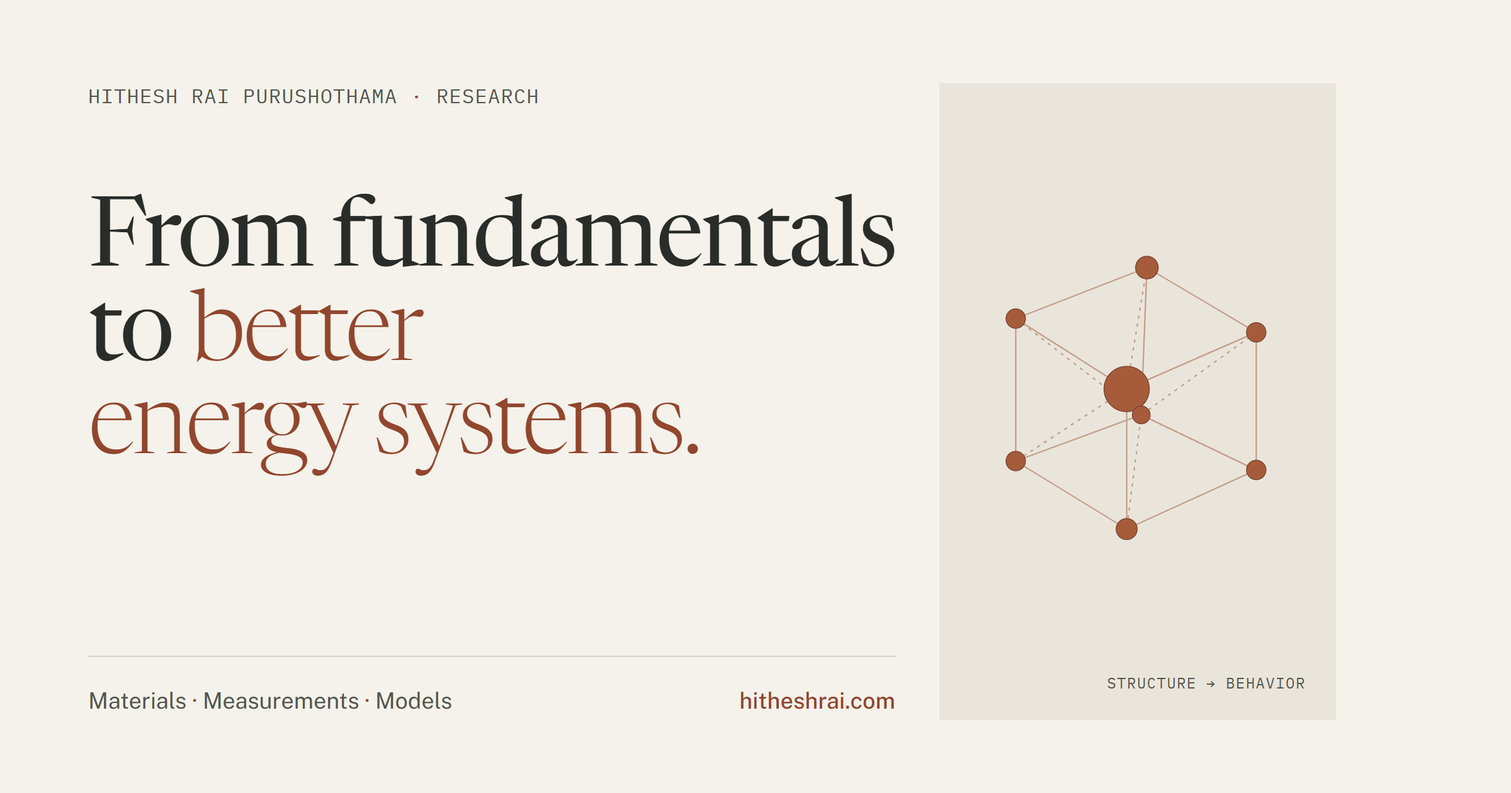
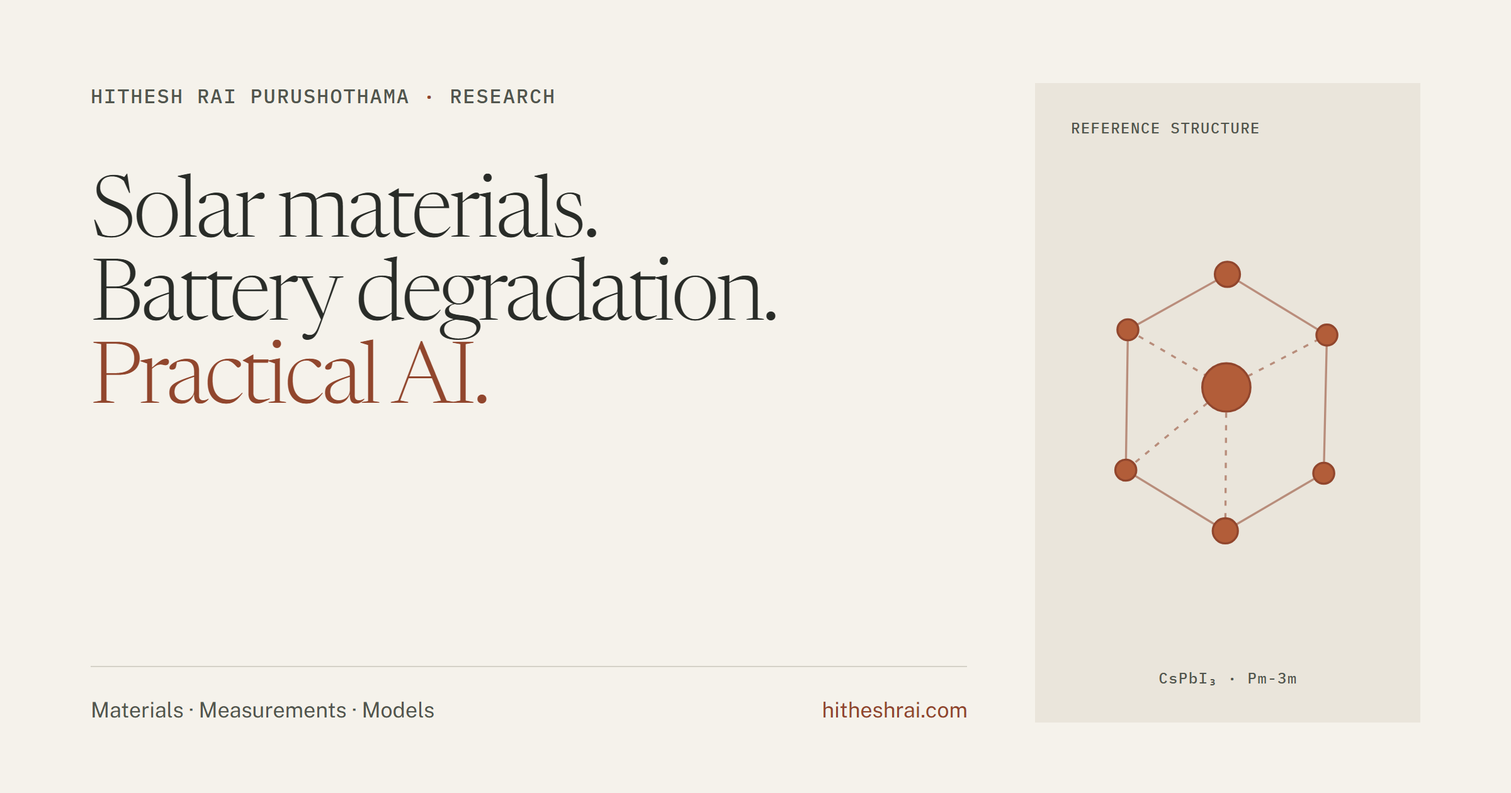
Center the site on documented research contributions

diff --git a/src/data/site.ts b/src/data/site.ts
@@ -7,22 +7,22 @@ export const profile = {
 
 // A deliberately small public profile. Detailed research records stay outside the site.
 export const projects = [
-  { id: 'perovskites', number: '01', category: 'Undergraduate · Solar', affiliation: 'ASU · Rolston Lab', title: 'From narrow to wide bandgaps.', problem: 'Question', problemText: 'How do composition and processing change what a perovskite film absorbs—and how it degrades?', role: 'Contribution', roleText: 'Started with mobile ions in FAPbI₃, then moved to ambient-processed cesium-based films.', outcome: 'Shared', outcomeText: 'Through IEEE PVSC and IPEROP.', href: 'https://www.nanoge.org/proceedings/IPEROP25/674e7264d74a090160ef6a3d', link: 'IPEROP record' },
-  { id: 'impedance', number: '02', category: 'Master’s · Batteries', affiliation: 'ASU · Rolston Lab', title: 'Follow the degradation signal.', problem: 'Question', problemText: 'What can impedance—how a cell resists current at different frequencies—tell us before performance is lost?', role: 'Contribution', roleText: 'Test physical checks, features, and models against battery cells they have not seen before.', outcome: 'Shared', outcomeText: 'The cross-system approach at AI4X 2026.', href: 'https://openreview.net/pdf?id=qJkiTa9Z0q', link: 'AI4X abstract' },
-  { id: 'computational-materials', number: '03', category: 'Across both · Computation', affiliation: 'ASU · Rolston Lab', title: 'Choose the next experiment.', problem: 'Question', problemText: 'How can a large materials space be searched without treating every candidate as equally useful?', role: 'Contribution', roleText: 'Build screening workflows that narrow what should be tested next.', outcome: 'Direction', outcomeText: 'Let computation guide experiments, then let experiments correct the model.', href: 'https://github.com/rolston-lab-asu/BO-for-Energy-material', link: 'Rolston Lab code' },
+  { id: 'perovskites', number: '01', category: 'Undergraduate · Solar', affiliation: 'ASU · Rolston Lab', title: 'Perovskite films: ions and processing', problem: 'Question', problemText: 'How do additives and processing affect ionic motion and film quality?', role: 'Contribution', roleText: 'Investigated mobile ions using PAIOS electrical and optical characterization, then worked on ambient blade coating of cesium lead halide films.', outcome: 'Outputs', outcomeText: 'Three ASU Forge projects, a 2024 IEEE PVSC paper, and a 2025 IPEROP poster.', href: 'https://forge.engineering.asu.edu/participant/rai-purushothama-hithesh/', link: 'Three ASU research records' },
+  { id: 'impedance', number: '02', category: 'Master’s · Batteries', affiliation: 'ASU · Rolston Lab', title: 'What impedance reveals about aging', problem: 'Question', problemText: 'How does a cell’s electrical response to a small alternating signal change as it ages?', role: 'Contribution', roleText: 'Check measurement consistency, extract impedance features, and evaluate models on cells excluded from training.', outcome: 'Status', outcomeText: 'The research approach was shared at AI4X 2026; transfer evaluation remains ongoing.', href: 'https://openreview.net/pdf?id=qJkiTa9Z0q', link: 'AI4X abstract' },
+  { id: 'computational-materials', number: '03', category: 'Across both · Computation', affiliation: 'ASU · Rolston Lab', title: 'Screening material candidates', problem: 'Question', problemText: 'How can existing property data make candidate selection more systematic?', role: 'Contribution', roleText: 'Build materials-data workflows and Bayesian-optimization benchmarks for candidate selection.', outcome: 'Boundary', outcomeText: 'The public code benchmarks search methods; experimental validation is a separate stage.', href: 'https://github.com/rolston-lab-asu/BO-for-Energy-material', link: 'Rolston Lab benchmark code' },
 ];
 
 export const publications = [
-  { year: '2026', venue: 'AI4X–Accelerate · Singapore', type: 'Poster', title: 'Transferable Impedance-Grounded Learning for Interfacial Degradation Across Energy Systems', authors: 'H. R. Purushothama, M. Casareto, N. Rolston', href: 'https://openreview.net/pdf?id=qJkiTa9Z0q', linkLabel: 'Abstract', note: 'The linked abstract predates the presented poster and lists H. R. Purushothama and N. Rolston.' },
-  { year: '2025', venue: 'IPEROP · Kyoto', type: 'Poster', title: 'Blade-Coated Cesium Lead Halide Perovskite Thin Films for Alphavoltaic and Optoelectronic Applications', authors: 'H. R. Purushothama, N. Rolston', href: 'https://www.nanoge.org/proceedings/IPEROP25/674e7264d74a090160ef6a3d', linkLabel: 'Conference record', note: '' },
-  { year: '2024', venue: 'IEEE PVSC · Seattle', type: 'Conference paper', title: 'Quantifying Mobile Ions in Formamidinium Lead Iodide Perovskite to Study Ion Migration for Enhanced Stability and Performance', authors: 'H. R. Purushothama, S. Penukula, N. Rolston', href: 'https://doi.org/10.1109/PVSC57443.2024.10749044', linkLabel: 'IEEE record', note: '' },
+  { year: '2026', venue: 'AI4X–Accelerate · Singapore', type: 'Poster', title: 'Transferable Impedance-Grounded Learning for Interfacial Degradation Across Energy Systems', authors: 'H. R. Purushothama, M. Casareto, N. Rolston', summary: 'How impedance measurements can inform models of degradation at material interfaces.', href: 'https://openreview.net/pdf?id=qJkiTa9Z0q', linkLabel: 'Abstract', note: 'The linked abstract predates the presented poster and lists H. R. Purushothama and N. Rolston.' },
+  { year: '2025', venue: 'IPEROP · Kyoto', type: 'Poster', title: 'Blade-Coated Cesium Lead Halide Perovskite Thin Films for Alphavoltaic and Optoelectronic Applications', authors: 'H. R. Purushothama, N. Rolston', summary: 'Ambient processing of cesium lead halide materials into thick films.', href: 'https://www.nanoge.org/proceedings/IPEROP25/674e7264d74a090160ef6a3d', linkLabel: 'Conference record', note: '' },
+  { year: '2024', venue: 'IEEE PVSC · Seattle', type: 'Conference paper', title: 'Quantifying Mobile Ions in Formamidinium Lead Iodide Perovskite to Study Ion Migration for Enhanced Stability and Performance', authors: 'H. R. Purushothama, S. Penukula, N. Rolston', summary: 'Mobile ions in a perovskite semiconductor and their relationship with stability.', href: 'https://doi.org/10.1109/PVSC57443.2024.10749044', linkLabel: 'IEEE record', note: '' },
 ];
 
 export const experience = [
   { id: 'asu', place: 'Tempe', institution: 'Arizona State University', unit: 'Rolston Lab', coord: [-111.94, 33.42], period: 'Since 2022', role: 'Research Assistant · Graduate role since Jan 2026', text: 'The work began with making perovskite films alongside the Rolston Lab team. Ambient processing is what manufacturing needs—and it is harder.' },
   { id: 'purdue', place: 'West Lafayette', institution: 'Purdue University', unit: 'Letian Dou Group', coord: [-86.91, 40.42], period: 'Summer 2023', role: 'SURF Research Fellow', text: 'Fabricated and tested halide-perovskite solar cells, then compiled device structures, processing conditions, additives, and efficiencies into a shared database.' },
-  { id: 'hzb', place: 'Berlin', institution: 'Helmholtz-Zentrum Berlin', unit: 'Quantum Phenomena in Novel Materials', coord: [13.4, 52.52], period: 'Summer 2024', role: 'International Summer Student', text: 'Analyzed X-ray and neutron total-scattering data to connect local atomic structure with phase behavior in ferroelectric and piezoelectric perovskites.' },
-  { id: 'epfl', place: 'Neuchâtel', institution: 'EPFL', unit: 'Photovoltaics and Thin-Film Electronics Laboratory', coord: [6.93, 46.99], period: 'Summer 2025', role: 'Undergraduate Research Assistant · ThinkSwiss Scholar', text: 'Worked with the PV-Lab team on SnO₂ transport layers, device fabrication, encapsulation, and stability testing; fabricated single-junction cells up to 19% efficiency.' },
+  { id: 'hzb', place: 'Berlin', institution: 'Helmholtz-Zentrum Berlin', unit: 'Quantum Phenomena in Novel Materials', coord: [13.4, 52.52], period: 'Summer 2024', role: 'International Summer Student', text: 'Analyzed X-ray and neutron scattering data to investigate how local atomic arrangements relate to phase behavior in ferroelectric and piezoelectric perovskites.' },
+  { id: 'epfl', place: 'Neuchâtel', institution: 'EPFL', unit: 'Photovoltaics and Thin-Film Electronics Laboratory', coord: [6.93, 46.99], period: 'Summer 2025', role: 'Undergraduate Research Assistant · ThinkSwiss Scholar', text: 'Worked with the PV-Lab team on SnO₂ transport layers, solar-cell fabrication, encapsulation, and stability testing.' },
   { id: 'nextlab', place: 'Tempe', institution: 'ASU Next Lab', unit: 'AI & Edge Systems', coord: [-111.94, 33.42], period: 'Since 2023', role: 'Studio Associate from Sep 2023 · Management Intern since Mar 2026', text: 'Partner goals became systems the team could test under limited power and connectivity—with trade-offs made visible early.' },
-  { id: 'nims', place: 'Tsukuba', institution: 'NIMS', unit: 'Automated Electrochemical Experiments Team', coord: [140.11, 36.08], period: 'May–Aug 2026', role: 'Graduate Research Intern', text: 'Built analysis tools for roughly 12,000 impedance spectra and a 60-cell factorial study; rejected a strong-looking model after a lithium-conservation check exposed an artifact.' },
+  { id: 'nims', place: 'Tsukuba', institution: 'NIMS', unit: 'Automated Electrochemical Experiments Team', coord: [140.11, 36.08], period: 'May–Aug 2026', role: 'Graduate Research Intern', text: 'Built tools to analyze battery impedance data and a 60-cell factorial study. A lithium-conservation check exposed an artifact in one model result, so that result was rejected.' },
 ];

diff --git a/src/components/Engineering.tsx b/src/components/Engineering.tsx
@@ -1,19 +1,19 @@
 export default function Engineering() {
   return <section className="section wrap" id="engineering" aria-labelledby="engineering-title">
     <div className="section-heading" data-reveal>
-      <div><p className="eyebrow">Projects & leadership</p><h2 id="engineering-title">Helping technical teams move.</h2></div>
+      <div><p className="eyebrow">Beyond materials research</p><h2 id="engineering-title">Applied AI and engineering projects</h2></div>
       <a className="text-link" href="https://github.com/hitheshrai" target="_blank" rel="noreferrer">More on GitHub <span aria-hidden="true">↗</span><span className="sr-only"> (opens in a new tab)</span></a>
     </div>
 
     <div className="engineering-grid" data-reveal="scale">
       <figure className="engineering-photo"><img src="/assets/edge-llamacon.jpeg" width="675" height="380" alt="Four ASU Next Lab team members presenting EDge AI at LlamaCon 2025." loading="lazy"/><figcaption>ASU Next Lab presenting EDge AI at LlamaCon 2025 · Photo: ASU SolarSPELL</figcaption></figure>
-      <div className="engineering-story"><p className="eyebrow">Featured · EDge AI</p><h3>From a partner goal to a working demonstration.</h3><p>Worked across Next Lab and SolarSPELL to turn offline community AI into hardware tests, model trade-offs, demonstrations, and shared technical decisions. Kept power, memory, connectivity, and output quality visible throughout. Led the team presentation at ASU’s 2025 Agentic AI conference; the work also appeared at FOLC Fest and Meta’s inaugural LlamaCon.</p><div className="engineering-links"><a className="text-link" href="https://nextlab.asu.edu/edge-ai/" target="_blank" rel="noreferrer">Next Lab project <span aria-hidden="true">↗</span><span className="sr-only"> (opens in a new tab)</span></a><a className="text-link" href="https://nextlab.asu.edu/agentic-ai-and-the-student-experience/" target="_blank" rel="noreferrer">Conference recap <span aria-hidden="true">↗</span><span className="sr-only"> (opens in a new tab)</span></a><a className="text-link" href="https://solarspell.org/asu-solarspell-next-lab-pioneer-offline-ai" target="_blank" rel="noreferrer">SolarSPELL feature <span aria-hidden="true">↗</span><span className="sr-only"> (opens in a new tab)</span></a></div></div>
+      <div className="engineering-story"><p className="eyebrow">Featured · Next Lab + SolarSPELL</p><h3>EDge AI: testing an assistant that works offline</h3><p>With the team, compared latency, power, memory, and output quality on Jetson hardware, then helped prepare prototypes and demonstrations for partners. Led the team presentation at ASU’s 2025 Agentic AI conference; the project also appeared at FOLC Fest and Meta’s inaugural LlamaCon.</p><div className="engineering-links"><a className="text-link" href="https://nextlab.asu.edu/edge-ai/" target="_blank" rel="noreferrer">Project overview <span aria-hidden="true">↗</span><span className="sr-only"> (opens in a new tab)</span></a><a className="text-link" href="https://nextlab.asu.edu/agentic-ai-and-the-student-experience/" target="_blank" rel="noreferrer">ASU presentation recap <span aria-hidden="true">↗</span><span className="sr-only"> (opens in a new tab)</span></a><a className="text-link" href="https://solarspell.org/asu-solarspell-next-lab-pioneer-offline-ai" target="_blank" rel="noreferrer">SolarSPELL report <span aria-hidden="true">↗</span><span className="sr-only"> (opens in a new tab)</span></a></div></div>
     </div>
 
     <div className="project-groups" data-reveal>
-      <article><p className="eyebrow">Program work at Next Lab</p><h3>Connect the people, constraints, and build.</h3><ul><li><strong>Technical trade-offs</strong><span>Compared latency, power, memory, and output quality for offline models on Jetson hardware.</span></li><li><strong>Team delivery</strong><span>Led the EDge AI presentation at ASU’s Agentic AI conference and supported team demonstrations at FOLC Fest and LlamaCon.</span></li><li><strong>Working prototypes</strong><span>Helped move offline learning, research-briefing, and voice-assistant ideas into systems that teams could test.</span></li></ul></article>
-      <article><p className="eyebrow">Energy at scale</p><h3>From devices to infrastructure.</h3><ul><li><strong>Grid storage</strong><span>Modeled battery storage and renewable integration with PyPSA.</span></li><li><strong>AEE at ASU</strong><span>President, connecting energy, storage, manufacturing, and compute.</span></li><li><strong>EPICS · 2Unify Education</strong><span>Team lead, 2022–2024: led 10–15 students building Python and robotics activities for learners in the US and South Africa with Bridge2Africa.</span></li></ul></article>
-      <article><p className="eyebrow">Writing & public work</p><h3>Selected stories and records.</h3><ul className="press-links"><li><a href="https://solarspell.org/asu-solarspell-next-lab-pioneer-offline-ai" target="_blank" rel="noreferrer"><strong>ASU SolarSPELL & Next Lab pioneer offline AI</strong><span>Feature · SolarSPELL ↗</span></a></li><li><a href="https://annualreport.swissnex.org/projects/project-doing-research-in-switzerland-campaign-launch/" target="_blank" rel="noreferrer"><strong>Doing Research in Switzerland</strong><span>Video · Swissnex ↗</span></a></li><li><a href="https://letiandougroup.com/2023/05/25/surf-students/" target="_blank" rel="noreferrer"><strong>SURF students</strong><span>Lab post · Letian Dou Group ↗</span></a></li><li><a href="https://forge.engineering.asu.edu/furiproject/measuring-and-controlling-mobile-ion-concentration-to-improve-operational-stability-in-perovskite-thin-films/" target="_blank" rel="noreferrer"><strong>Measuring and Controlling Mobile Ion Concentration</strong><span>Research record · ASU FURI ↗</span></a></li></ul></article>
+      <article><p className="eyebrow">Prototype testing at Next Lab</p><h3>Working within real constraints</h3><ul><li><strong>Technical trade-offs</strong><span>Compared latency, power, memory, and output quality for offline models on Jetson hardware.</span></li><li><strong>Team demonstrations</strong><span>Prepared technical work for partner feedback, FOLC Fest, LlamaCon, and ASU’s Agentic AI conference.</span></li><li><strong>Other prototypes</strong><span>Helped develop offline learning, research-briefing, and voice-interaction tools.</span></li></ul></article>
+      <article><p className="eyebrow">Energy modeling and student leadership</p><h3>Additional work</h3><ul><li><strong>Grid storage</strong><span>Modeled battery storage and renewable generation with PyPSA.</span></li><li><strong>AEE at ASU</strong><span>Serve as president of ASU’s Association of Energy Engineers student chapter.</span></li><li><strong>EPICS · 2Unify Education</strong><span>Led a student team from 2022–2024 building Python and robotics activities for learners in the US and South Africa with Bridge2Africa.</span></li></ul></article>
+      <article><p className="eyebrow">Project coverage and research records</p><h3>External accounts of shared work</h3><ul className="press-links"><li><a href="https://solarspell.org/asu-solarspell-next-lab-pioneer-offline-ai" target="_blank" rel="noreferrer"><strong>ASU SolarSPELL & Next Lab pioneer offline AI</strong><span>Feature · SolarSPELL ↗</span></a></li><li><a href="https://annualreport.swissnex.org/projects/project-doing-research-in-switzerland-campaign-launch/" target="_blank" rel="noreferrer"><strong>Doing Research in Switzerland</strong><span>Video · Swissnex ↗</span></a></li><li><a href="https://letiandougroup.com/2023/05/25/surf-students/" target="_blank" rel="noreferrer"><strong>Purdue summer research</strong><span>Lab post · Letian Dou Group ↗</span></a></li><li><a href="https://forge.engineering.asu.edu/participant/rai-purushothama-hithesh/" target="_blank" rel="noreferrer"><strong>Three perovskite research projects</strong><span>Research records · ASU Forge ↗</span></a></li></ul></article>
     </div>
 
     <p className="rail-hint" aria-hidden="true">Swipe through project photographs →</p>

diff --git a/src/components/Hero.tsx b/src/components/Hero.tsx
@@ -1,4 +1,4 @@
 import EnergyVision from './EnergyVision';
 export default function Hero() {
-  return <section className="hero wrap" aria-labelledby="intro-title"><div className="hero-copy" data-reveal="left"><h1 id="intro-title" className="hero-name">Hithesh Rai Purushothama</h1><p className="hero-vision">From fundamentals<br/>to <em>better<br/>energy systems.</em></p><p className="hero-description">Undergraduate research with ASU’s Rolston Lab moved from narrow- to wide-bandgap perovskites for solar. Graduate work now brings the same materials-and-measurement approach to battery degradation.</p><div className="hero-actions"><a className="button" href="#research">Follow the work <span aria-hidden="true">↘</span></a><a className="text-link" href="#contact">Let’s talk <span aria-hidden="true">↗</span></a></div><p className="hero-affiliation">Graduate researcher · Arizona State University</p></div><figure className="hero-figure vision-figure" data-reveal="scale"><div className="figure-topline"><span>Research vision</span><span aria-hidden="true">Materials → Devices → Systems</span></div><EnergyVision/><figcaption><span>Ideal cubic CsPbI₃ reference · Pm-3m</span><span className="vision-sources"><a className="art-label" href="https://materialsproject.org/materials/mp-1069538/" target="_blank" rel="noreferrer">Structure source <span aria-hidden="true">↗</span><span className="sr-only"> (opens in a new tab)</span></a></span></figcaption></figure></section>;
+  return <section className="hero wrap" aria-labelledby="intro-title"><div className="hero-copy" data-reveal="left"><h1 id="intro-title" className="hero-name">Hithesh Rai Purushothama</h1><p className="hero-vision">Solar materials.<br/>Battery degradation.<br/><em>Practical AI.</em></p><p className="hero-description">At ASU, my work spans thin-film fabrication, battery measurements, and computational analysis—alongside team projects testing offline AI under power, memory, and connectivity constraints.</p><div className="hero-actions"><a className="button" href="#research">Explore research <span aria-hidden="true">↘</span></a><a className="text-link" href="#contact">Contact me <span aria-hidden="true">↗</span></a></div><p className="hero-affiliation">Graduate researcher · Arizona State University</p></div><figure className="hero-figure vision-figure" data-reveal="scale"><div className="figure-topline"><span>Questions behind the work</span><span aria-hidden="true">Materials → Devices → Systems</span></div><EnergyVision/><figcaption><span>Reference structure: cesium lead iodide (CsPbI₃) · ideal cubic phase, Pm-3m</span><span className="vision-sources"><a className="art-label" href="https://materialsproject.org/materials/mp-1069538/" target="_blank" rel="noreferrer">View reference structure <span aria-hidden="true">↗</span><span className="sr-only"> (opens in a new tab)</span></a></span></figcaption></figure></section>;
 }

diff --git a/src/components/About.tsx b/src/components/About.tsx
@@ -1,3 +1,3 @@
 export default function About() {
-  return <section className="section wrap about-section" id="about" aria-labelledby="about-title"><figure className="portrait" data-reveal="left"><img src="/assets/hithesh-nick-furi.jpg" alt="Hithesh with Professor Nicholas Rolston beside an ion-migration research poster at ASU." width="2048" height="1365" loading="lazy"/><figcaption>With Prof. Nicholas Rolston at the Fulton research symposium · ASU</figcaption></figure><div className="about-copy" data-reveal><p className="eyebrow">Why these fields connect</p><h2 id="about-title">The path was not a straight line.</h2><p>Undergraduate research with Rolston Lab moved from narrow- to wide-bandgap solar materials. Graduate work now centers on batteries, degradation, and the measurements that help explain it.</p><p>Next Lab added another question: does an idea still work when power, connectivity, and access are limited?</p><p>Together, those experiences made AI Engineering with a Materials Science track the right bridge: understand the material, question the model, and keep the larger energy system in view.</p><p className="about-study">M.S. AI Engineering · Materials Science and Engineering, expected 2027<br/>B.S.E. Electrical and Electronic Engineering, 2025 · Arizona State University</p><a className="text-link" href="mailto:hraipuru@asu.edu">Share what your team is working on <span aria-hidden="true">↗</span></a></div></section>;
+  return <section className="section wrap about-section" id="about" aria-labelledby="about-title"><figure className="portrait" data-reveal="left"><img src="/assets/hithesh-nick-furi.jpg" alt="Hithesh with Professor Nicholas Rolston beside an ion-migration research poster at ASU." width="2048" height="1365" loading="lazy"/><figcaption>With Prof. Nicholas Rolston at ASU’s Fulton research symposium</figcaption></figure><div className="about-copy" data-reveal><p className="eyebrow">Background and current focus</p><h2 id="about-title">Materials research and practical AI</h2><p>Work with Rolston Lab began during the B.S.E. in electrical engineering, moving from perovskite films and ion migration toward battery degradation and computational analysis.</p><p>At Next Lab, the engineering problem is different: helping teams test AI prototypes against local hardware and connectivity constraints.</p><p>Graduate study now combines AI Engineering with a Materials Science and Engineering track, with research focused on battery measurements and degradation.</p><p className="about-study">M.S. AI Engineering · Materials Science and Engineering, expected 2027<br/>B.S.E. Electrical and Electronic Engineering, 2025 · Arizona State University</p><a className="text-link" href="mailto:hraipuru@asu.edu">Share what your team is working on <span aria-hidden="true">↗</span></a></div></section>;
 }

diff --git a/src/components/Research.tsx b/src/components/Research.tsx
@@ -1,5 +1,5 @@
 import { projects } from '../data/site';
 import ResearchArt from './ResearchArt';
 export default function Research() {
-  return <section className="section wrap" id="research" aria-labelledby="research-title"><div className="section-heading" data-reveal><div><p className="eyebrow">Make · Measure · Model</p><h2 id="research-title">The three belong together.</h2></div><p>Most of this work grew with the ASU Rolston Lab team, beginning in 2022.</p></div><div className="research-grid">{projects.map(project => <article className={`research-card research-${project.id}`} key={project.id} data-reveal><div className="research-visual"><span className="art-number" aria-hidden="true">{project.number}</span><ResearchArt kind={project.id}/><span className="art-label">Concept schematic</span></div><div className="research-card-copy"><p className="eyebrow">{project.affiliation} <span aria-hidden="true">·</span> {project.category}</p><h3>{project.title}</h3><dl className="research-facts"><div><dt>{project.problem}</dt><dd>{project.problemText}</dd></div><div><dt>{project.role}</dt><dd>{project.roleText}</dd></div><div><dt>{project.outcome}</dt><dd>{project.outcomeText}</dd></div></dl><a className="read-project" href={project.href} target="_blank" rel="noreferrer">{project.link}<span aria-hidden="true">↗</span><span className="sr-only">: {project.category} (opens in a new tab)</span></a></div></article>)}</div></section>;
+  return <section className="section wrap" id="research" aria-labelledby="research-title"><div className="section-heading" data-reveal><div><p className="eyebrow">Renewable Energy Materials and Devices Lab · ASU</p><h2 id="research-title">Research at Rolston Lab</h2></div><p>Since 2022, the work has moved from perovskite films and ion migration toward battery degradation and computational screening.</p></div><div className="research-grid">{projects.map(project => <article className={`research-card research-${project.id}`} key={project.id} data-reveal><div className="research-visual"><span className="art-number" aria-hidden="true">{project.number}</span><ResearchArt kind={project.id}/><span className="art-label">Concept schematic</span></div><div className="research-card-copy"><p className="eyebrow">{project.affiliation} <span aria-hidden="true">·</span> {project.category}</p><h3>{project.title}</h3><dl className="research-facts"><div><dt>{project.problem}</dt><dd>{project.problemText}</dd></div><div><dt>{project.role}</dt><dd>{project.roleText}</dd></div><div><dt>{project.outcome}</dt><dd>{project.outcomeText}</dd></div></dl><a className="read-project" href={project.href} target="_blank" rel="noreferrer">{project.link}<span aria-hidden="true">↗</span><span className="sr-only">: {project.category} (opens in a new tab)</span></a></div></article>)}</div></section>;
 }

diff --git a/src/index.css b/src/index.css
@@ -119,7 +119,7 @@ h3 { font-size: 1.8rem; line-height: 1.12; letter-spacing: -.02em; }
 .energy-caption p { margin: 0; }
 .energy-caption .energy-kicker { margin-bottom: 5px; color: var(--accent); font: 600 12px/1.2 'IBM Plex Mono', monospace; letter-spacing: .025em; }
 .energy-caption .energy-title { margin-bottom: 5px; color: var(--ink); font: 500 20px/1.1 'Newsreader', Georgia, serif; }
-.energy-caption > p:last-child { max-width: 48ch; font-size: 12px; line-height: 1.55; }
+.energy-caption > p:last-child { max-width: 52ch; font-size: 13px; line-height: 1.6; }
 .art-label { font-family: 'IBM Plex Mono', monospace; font-size: 12px; letter-spacing: .02em; color: var(--secondary); }
 .research-art text { font-family: 'IBM Plex Mono', monospace; font-size: 11px; fill: currentColor; }
 .crystal-model { overflow: visible; }
@@ -140,9 +140,9 @@ h3 { font-size: 1.8rem; line-height: 1.12; letter-spacing: -.02em; }
 .research-card-copy .eyebrow { font-size: 12px; letter-spacing: .025em; margin-bottom: 12px; }
 .research-card h3 { font-size: clamp(1.8rem, 2.4vw, 2.3rem); max-width: 19ch; }
 .research-facts { margin: 18px 0 0; }
-.research-facts > div { display: grid; grid-template-columns: 64px 1fr; gap: 12px; border-top: 1px solid var(--line); padding-block: 10px; }
+.research-facts > div { display: grid; grid-template-columns: 88px minmax(0,1fr); gap: 14px; border-top: 1px solid var(--line); padding-block: 11px; }
 .research-facts dt { color: var(--accent); font: 12px 'IBM Plex Mono',monospace; letter-spacing: .025em; }
-.research-facts dd { color: var(--secondary); font-size: 12px; line-height: 1.55; margin: 0; }
+.research-facts dd { min-width: 0; color: var(--secondary); font-size: 13px; line-height: 1.6; margin: 0; }
 .read-project { display: flex; justify-content: space-between; align-items: center; margin-top: auto; padding-top: 12px; border-top: 1px solid var(--line); font-size: 13px; color: var(--accent); min-height: 56px; }
 .read-project:hover { border-color: var(--accent); }
 
@@ -154,6 +154,7 @@ h3 { font-size: 1.8rem; line-height: 1.12; letter-spacing: -.02em; }
 .publication-copy h3 { font-size: 24px; line-height: 1.25; max-width: 57ch; margin-top: 8px; }
 .publication-copy .eyebrow { font-size: 12px; }
 .publication-authors { font-size: 13px; color: var(--secondary); margin-top: 8px; }
+.publication-summary { max-width: 64ch; font-size: 13px; color: var(--secondary); line-height: 1.6; margin-top: 10px; }
 .publication-link { font-size: 12px; color: var(--accent); align-self: center; min-height: 44px; display: flex; align-items: center; gap: 8px; }
 .publication-link:hover { text-decoration: underline; text-underline-offset: 4px; }
 .citation-note { font-size: 12px; color: var(--secondary); margin-top: 9px; }

diff --git a/src/components/Publications.tsx b/src/components/Publications.tsx
@@ -1,4 +1,4 @@
 import { publications } from '../data/site';
 export default function Publications() {
-  return <section className="publication-section" id="publications" aria-labelledby="publications-title"><div className="wrap section"><div className="section-heading" data-reveal><div><p className="eyebrow">Publications & presentations</p><h2 id="publications-title">Research made public.</h2></div><p>Selected conference work · 2024–2026</p></div><ol className="publication-list">{publications.map(pub => <li key={pub.title} data-reveal><span className="publication-year">{pub.year}</span><div className="publication-copy"><p className="eyebrow">{pub.venue} <span aria-hidden="true">·</span> {pub.type}</p><h3>{pub.title}</h3>{pub.authors && <p className="publication-authors">{pub.authors}</p>}</div>{pub.href && <a className="publication-link" href={pub.href} target="_blank" rel="noreferrer" aria-label={`${pub.linkLabel}: ${pub.title} (opens in a new tab)`}>{pub.linkLabel} <span aria-hidden="true">↗</span></a>}</li>)}</ol><p className="publication-footnote">The AI4X link is an earlier abstract; M. Casareto was added to the presented poster.</p></div></section>;
+  return <section className="publication-section" id="publications" aria-labelledby="publications-title"><div className="wrap section"><div className="section-heading" data-reveal><div><p className="eyebrow">Selected work shared with collaborators</p><h2 id="publications-title">Conference papers and research posters</h2></div><p>2024–2026</p></div><ol className="publication-list">{publications.map(pub => <li key={pub.title} data-reveal><span className="publication-year">{pub.year}</span><div className="publication-copy"><p className="eyebrow">{pub.venue} <span aria-hidden="true">·</span> {pub.type}</p><h3>{pub.title}</h3>{pub.authors && <p className="publication-authors">{pub.authors}</p>}<p className="publication-summary">{pub.summary}</p></div>{pub.href && <a className="publication-link" href={pub.href} target="_blank" rel="noreferrer" aria-label={`${pub.linkLabel}: ${pub.title} (opens in a new tab)`}>{pub.linkLabel} <span aria-hidden="true">↗</span></a>}</li>)}</ol><p className="publication-footnote">The AI4X link is an earlier abstract; M. Casareto was added to the presented poster.</p></div></section>;
 }

diff --git a/index.html b/index.html
@@ -4,10 +4,10 @@
     <meta charset="UTF-8" />
     <meta name="viewport" content="width=device-width, initial-scale=1.0" />
     <meta name="theme-color" content="#F5F2EB" />
-    <title>Hithesh Rai Purushothama — From fundamentals to better energy systems</title>
+    <title>Hithesh Rai Purushothama | Solar materials, batteries & applied AI</title>
     <meta
       name="description"
-      content="Hithesh Rai Purushothama. Understanding how materials behave, and how that understanding can scale into more reliable, efficient energy systems. Graduate researcher at Arizona State University."
+      content="Hithesh Rai Purushothama studies solar materials and battery degradation, builds computational research tools, and contributes to offline AI projects."
     />
 
     <link rel="canonical" href="https://hitheshrai.com/" />
@@ -17,15 +17,15 @@
     <meta property="og:type" content="website" />
     <meta property="og:url" content="https://hitheshrai.com/" />
     <meta property="og:site_name" content="Hithesh Rai Purushothama" />
-    <meta property="og:title" content="Hithesh Rai Purushothama — From fundamentals to better energy systems" />
+    <meta property="og:title" content="Hithesh Rai Purushothama | Solar materials, batteries & applied AI" />
     <meta
       property="og:description"
-      content="Understanding how materials behave, and how that understanding can scale into more reliable, efficient energy systems."
+      content="Solar materials, battery degradation, computational research tools, and offline AI projects."
     />
     <meta property="og:image" content="https://hitheshrai.com/assets/og-redesign.png" />
     <meta property="og:image:width" content="2400" />
     <meta property="og:image:height" content="1260" />
-    <meta property="og:image:alt" content="Hithesh Rai Purushothama — From fundamentals to better energy systems, with an illustrative materials structure" />
+    <meta property="og:image:alt" content="Hithesh Rai Purushothama — solar materials, batteries, and applied AI" />
     <meta name="twitter:card" content="summary_large_image" />
 
     <link rel="apple-touch-icon" sizes="180x180" href="/assets/images/apple-touch-icon.png" />

diff --git a/src/components/EnergyVision.tsx b/src/components/EnergyVision.tsx
@@ -2,10 +2,10 @@ import { useEffect, useRef, useState } from 'react';
 import type { Group, Material, Object3D, PerspectiveCamera, Scene, WebGLRenderer } from 'three';
 
 const stages = [
-  { short: 'Materials', kicker: 'Fundamentals', title: 'Structure sets the starting point', text: 'Halide perovskites anchor the solar work. Composition, processing, and interfaces decide how the material behaves.' },
-  { short: 'Solar', kicker: 'Generation', title: 'A good film is only the start', text: 'The next question is what gets lost between a promising perovskite film and a solar module that lasts.' },
-  { short: 'Batteries', kicker: 'Diagnostics', title: 'Follow what changes inside the cell', text: 'Graduate work uses impedance and physical checks to study interfaces, degradation, and which signals can be trusted.' },
-  { short: 'Systems', kicker: 'Scale', title: 'The questions meet at the grid', text: 'Solar makes energy. Storage makes it available when it is needed. Better systems depend on understanding both.' },
+  { short: 'Materials', kicker: 'Materials', title: 'How composition and processing affect a film', text: 'Perovskites are a family of materials that includes semiconductors used in solar research. The work asks how composition, processing, and interfaces change their behavior.' },
+  { short: 'Solar', kicker: 'Devices', title: 'From making a film to testing a device', text: 'The solar research includes thin-film processing, device fabrication, and measurements used to investigate performance and stability.' },
+  { short: 'Batteries', kicker: 'Measurements', title: 'What changes as a battery ages?', text: 'Electrical measurements and physical checks help test which signals and model interpretations remain plausible as a cell degrades.' },
+  { short: 'Systems', kicker: 'Longer-term interest', title: 'Generation and storage at system scale', text: 'A longer-term question is how device performance and degradation affect decisions about solar generation and battery storage.' },
 ] as const;
 
 type StageIndex = 0 | 1 | 2 | 3;

diff --git a/src/components/Footer.tsx b/src/components/Footer.tsx
@@ -1,4 +1,4 @@
 import { profile } from '../data/site';
 export default function Footer() {
-  return <footer id="contact" className="site-footer"><div className="wrap"><div className="contact-top"><div><p className="eyebrow">A question, an idea, a shared curiosity.</p><h2>Let’s compare notes.</h2></div><a className="contact-email" href={`mailto:${profile.email}`}>{profile.email} <span aria-hidden="true">↗</span></a></div><div className="footer-bottom"><p>Hithesh Rai Purushothama <span>· Tempe, Arizona</span></p><nav aria-label="Contact and profiles"><a href={profile.github} target="_blank" rel="noreferrer">GitHub <span aria-hidden="true">↗</span><span className="sr-only"> (opens in a new tab)</span></a><a href={profile.linkedin} target="_blank" rel="noreferrer">LinkedIn <span aria-hidden="true">↗</span><span className="sr-only"> (opens in a new tab)</span></a></nav></div></div></footer>;
+  return <footer id="contact" className="site-footer"><div className="wrap"><div className="contact-top"><div><p className="eyebrow">Solar materials · battery measurements · practical AI</p><h2>Tell me what you’re working on.</h2></div><a className="contact-email" href={`mailto:${profile.email}`}>{profile.email} <span aria-hidden="true">↗</span></a></div><div className="footer-bottom"><p>Hithesh Rai Purushothama <span>· Tempe, Arizona</span></p><nav aria-label="Contact and profiles"><a href={profile.github} target="_blank" rel="noreferrer">GitHub <span aria-hidden="true">↗</span><span className="sr-only"> (opens in a new tab)</span></a><a href={profile.linkedin} target="_blank" rel="noreferrer">LinkedIn <span aria-hidden="true">↗</span><span className="sr-only"> (opens in a new tab)</span></a></nav></div></div></footer>;
 }

diff --git a/src/components/Experience.tsx b/src/components/Experience.tsx
@@ -66,7 +66,7 @@ export default function Experience() {
             </figure>
             <figure className="photo-card placement-photo" tabIndex={0}>
               <img src="/assets/hzb-presentation.jpg" width="800" height="600" alt="Hithesh discussing his pair-distribution-function research poster at Helmholtz-Zentrum Berlin." loading="lazy" />
-              <figcaption><strong>HZB · Berlin · 2024</strong><span>International Summer Student</span><span>X-ray and neutron PDF analysis</span></figcaption>
+              <figcaption><strong>HZB · Berlin · 2024</strong><span>International Summer Student</span><span>Studying atomic arrangements with X-ray and neutron scattering</span></figcaption>
             </figure>
             <figure className="photo-card placement-photo" tabIndex={0}>
               <img src="/assets/thinkswiss-certificate.jpg" width="800" height="533" alt="Hithesh receiving a ThinkSwiss certificate after his EPFL summer research." loading="lazy" />

diff --git a/src/components/Header.tsx b/src/components/Header.tsx
@@ -1,5 +1,5 @@
 import { useEffect, useRef, useState } from 'react';
-const links = [['Research', 'research'], ['Experience', 'experience'], ['Publications', 'publications'], ['Projects', 'engineering'], ['About', 'about'], ['Contact', 'contact']];
+const links = [['Research', 'research'], ['Experience', 'experience'], ['Papers & posters', 'publications'], ['Engineering', 'engineering'], ['About', 'about'], ['Contact', 'contact']];
 
 export default function Header() {
   const [open, setOpen] = useState(false);
